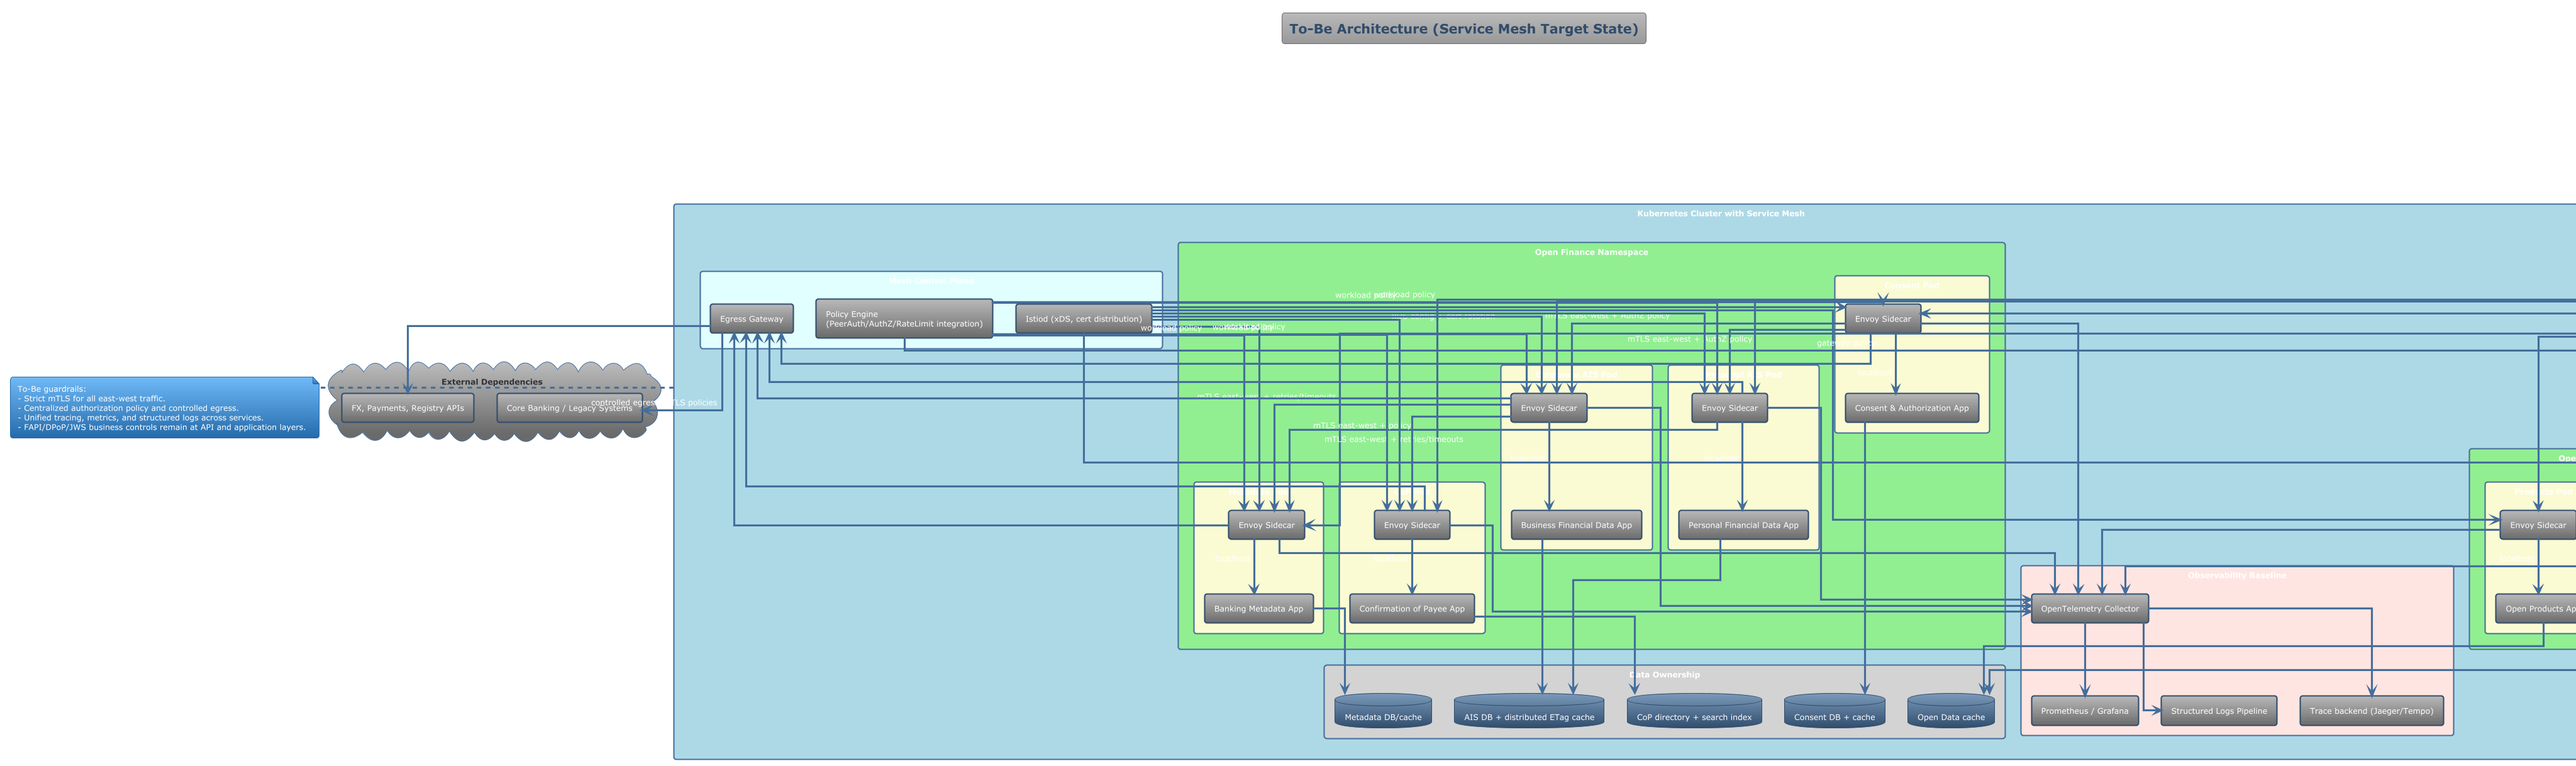
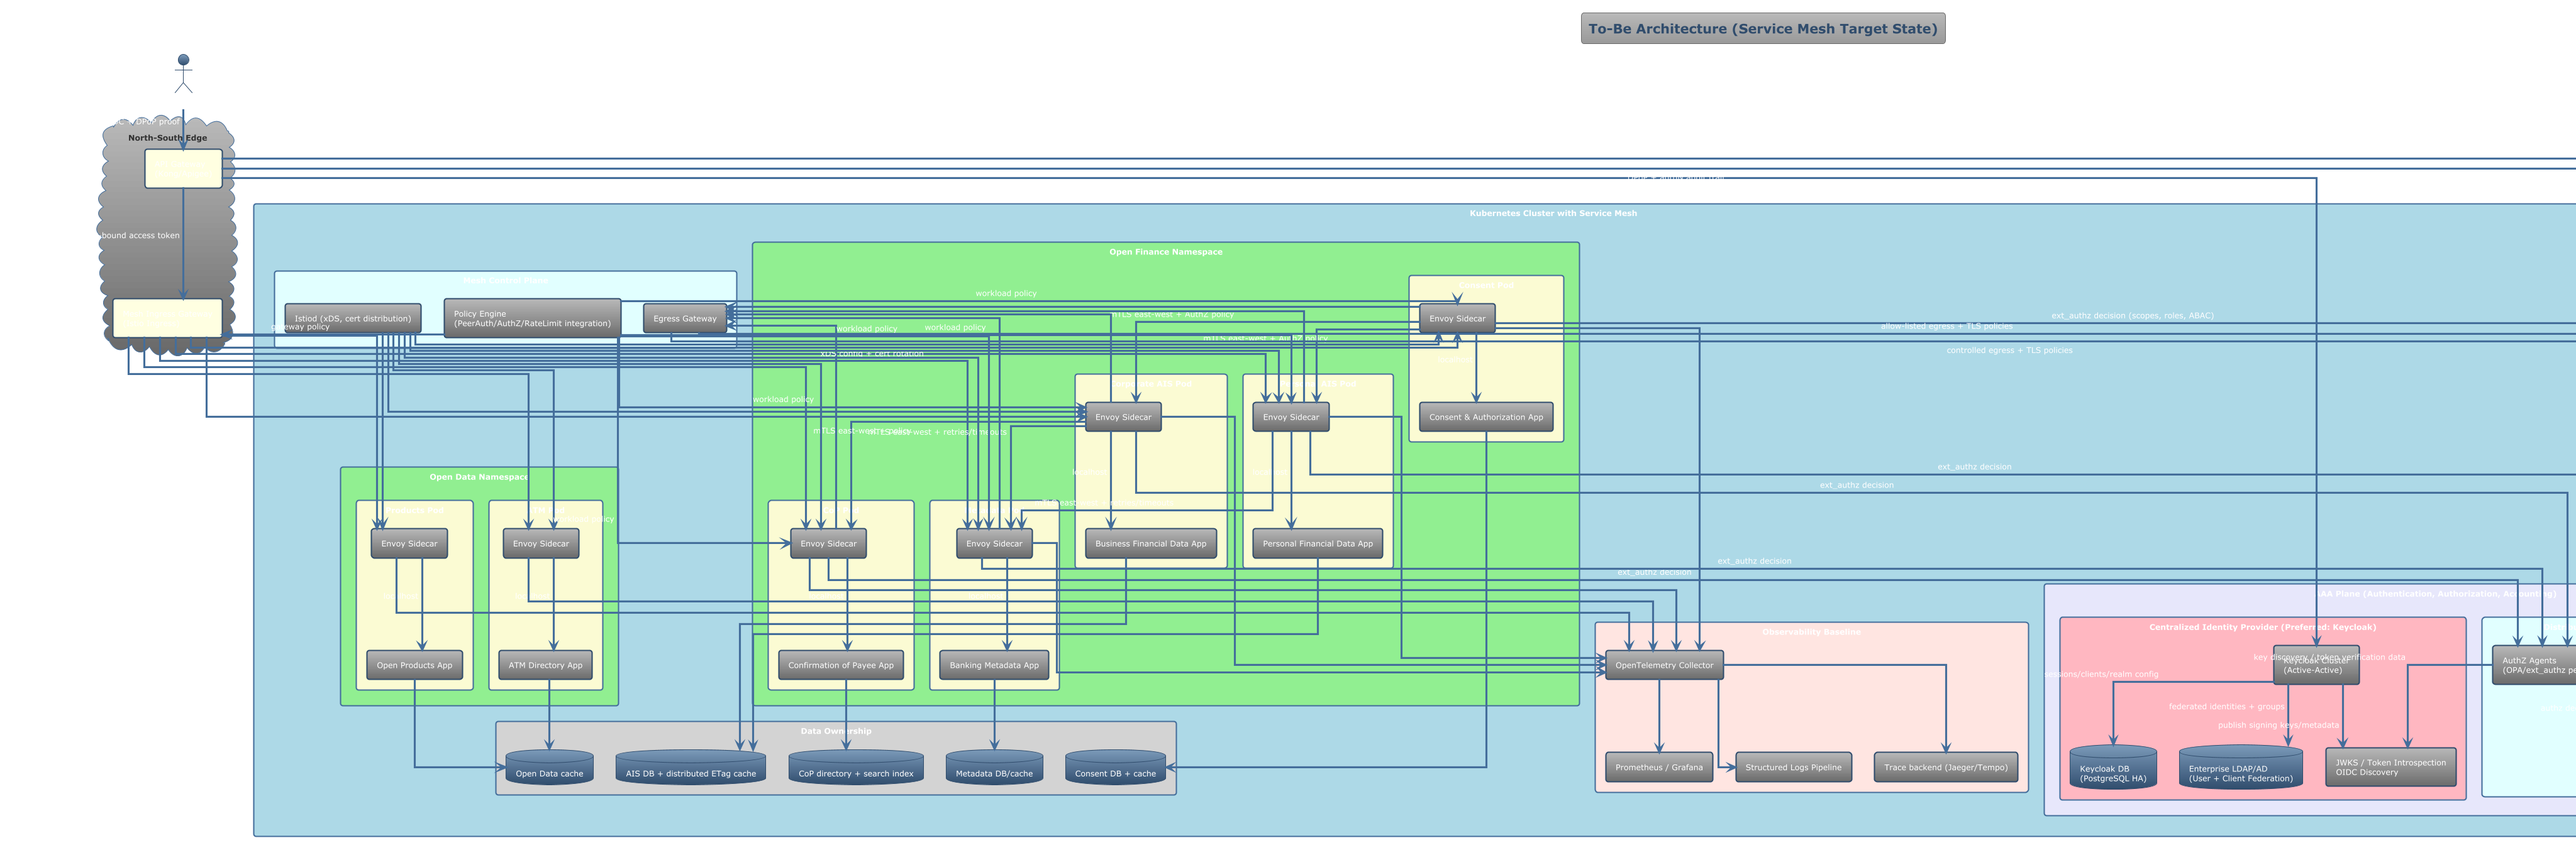
docs(service-mesh): add centralized keycloak aaa and dpop model

diff --git a/docs/puml/service-mesh/plan.md b/docs/puml/service-mesh/plan.md
@@ -4,6 +4,8 @@
 
 Migrate Open Finance services from direct east-west traffic to service-mesh managed communication with strict mTLS, policy-based authorization, controlled egress, and unified observability, while preserving FAPI controls in API/application layers.
 
+Design target includes a centralized identity provider (Keycloak preferred), enterprise LDAP federation, and distributed authorization agents with DPoP enforcement.
+
 ## Scope
 
 In scope:
@@ -21,17 +23,46 @@ Out of scope:
 - As-Is: `as-is-open-finance-runtime.puml`
 - To-Be: `to-be-open-finance-service-mesh.puml`
 
+## AAA Architecture (Keycloak Preferred)
+
+### Authentication
+
+- Centralized IdP: Keycloak cluster (active-active) with OIDC/OAuth2 endpoints.
+- Identity source: LDAP/AD federation for workforce/internal identities; regulated TPP clients managed per realm.
+- Token profile: short-lived access tokens, rotation-friendly refresh strategy, signed JWT with key rotation (`kid` via JWKS).
+
+### Authorization
+
+- Layer 1: API gateway coarse policy checks (client, route, DPoP presence).
+- Layer 2: Mesh/workload policy (`AuthorizationPolicy`, mTLS identity).
+- Layer 3: Distributed authz agents (OPA/ext_authz) for fine-grained ABAC/RBAC/scopes/consent decisions.
+
+### Accounting
+
+- Central immutable audit stream for authN/authZ/DPoP decisions.
+- Correlate logs with interaction IDs and token identifiers (`sub`, `jti`, `cnf.jkt`).
+- Compliance retention and dispute retrieval controls by policy.
+
+## DPoP Enforcement Model
+
+1. Client sends access token + DPoP proof.
+2. Gateway validates proof signature and claims (`htm`, `htu`, `iat`, `jti`, `ath`) and verifies token binding (`cnf.jkt`).
+3. Replay protection enforced via distributed nonce/jti cache.
+4. Mesh ingress/workload agents apply policy and can perform secondary checks for high-risk routes.
+5. All outcomes are written to the audit sink.
+
 ## Delivery Phases
 
 | Phase | Duration | Goal | Exit Criteria | Delivery Artifact |
 | --- | --- | --- | --- | --- |
 | P0 Discovery & ADR | 1-2 weeks | Select mesh stack and migration constraints | Approved ADR, risk register baseline | `docs/service-mesh/adr-service-mesh-selection.md` |
 | P1 Platform Foundation | 2 weeks | Install mesh in non-prod with ingress integration | Mesh control plane healthy; sidecar injection ready | `infra/mesh/base/*`, install runbook |
-| P2 Security Baseline | 2 weeks | Apply mTLS + workload authz + egress control baseline | Namespaces in `STRICT` mTLS (non-prod); deny-by-default policies tested | `infra/mesh/security/*` |
-| P3 Wave 1 Services | 2 weeks | Onboard low-risk services | Canaries pass SLO gates and rollback drills | Wave 1 migration report |
-| P4 Wave 2 Services | 3 weeks | Onboard AIS/metadata/CoP services | Contract and perf tests pass under mesh | Wave 2 migration report |
-| P5 Wave 3 Critical Flows | 3 weeks | Onboard consent and payment-adjacent services | Security and latency gates pass; compliance signoff | Wave 3 migration report |
-| P6 Hardening & Cutover | 1-2 weeks | Global hardening and operational handover | Global policy lock, DR drill pass, go-live signoff | Production readiness checklist |
+| P2 AAA Foundation | 2 weeks | Stand up Keycloak HA, LDAP federation, JWKS and audit pipeline | IdP HA validated, LDAP sync operational, token issuance/introspection healthy | `infra/identity/*`, AAA runbook |
+| P3 Security Baseline | 2 weeks | Apply mTLS + workload authz + DPoP + egress baseline | Namespaces in `STRICT` mTLS; DPoP gateway validation and replay cache validated | `infra/mesh/security/*`, `infra/mesh/dpop/*` |
+| P4 Wave 1 Services | 2 weeks | Onboard low-risk services | Canaries pass SLO gates and rollback drills | Wave 1 migration report |
+| P5 Wave 2 Services | 3 weeks | Onboard AIS/metadata/CoP services | Contract and perf tests pass under mesh | Wave 2 migration report |
+| P6 Wave 3 Critical Flows | 3 weeks | Onboard consent and payment-adjacent services | Security and latency gates pass; compliance signoff | Wave 3 migration report |
+| P7 Hardening & Cutover | 1-2 weeks | Global hardening and operational handover | Global policy lock, DR drill pass, go-live signoff | Production readiness checklist |
 
 ## Wave Ordering
 
@@ -51,6 +82,8 @@ Out of scope:
 ## CI/CD Requirements
 
 - Validate mesh resources (`kubectl --dry-run`, policy lint, schema validation).
+- Validate IdP/realm/client configuration as code (Keycloak export drift checks).
+- Validate DPoP policy pack and replay-cache configuration.
 - Run contract tests and integration tests against sidecar-enabled environments.
 - Enforce canary promotion gates on error rate, latency, and saturation.
 - Block merge if security policy pack or observability baseline is missing.
@@ -64,8 +97,9 @@ Out of scope:
 ## Definition of Done
 
 - Service receives traffic through mesh ingress and sidecar.
+- Service trusts centralized Keycloak issuer and required audience.
+- DPoP validation enforced on designated protected routes.
 - Strict mTLS enabled for the service namespace.
 - Least-privilege AuthorizationPolicy applied and verified.
 - Egress allowlist policy enforced.
 - SLOs and regression test suite pass for three consecutive deploys.
-

diff --git a/docs/puml/service-mesh/refactor.md b/docs/puml/service-mesh/refactor.md
@@ -4,6 +4,8 @@
 
 Define the concrete refactor backlog to move from application-centric transport controls to mesh-governed security, resilience, and observability without breaking business behavior.
 
+This refactor assumes a centralized IdP (Keycloak preferred) with distributed authorization agents and DPoP token-binding enforcement.
+
 ## Refactor Principles
 
 1. Keep domain behavior in service code; move transport policy to mesh.
@@ -25,11 +27,22 @@ Define the concrete refactor backlog to move from application-centric transport 
 
 - API gateway + mesh ingress for north-south.
 - Sidecar proxy for all service pods.
+- Centralized Keycloak + LDAP federation for identity.
+- Distributed authz agents (OPA/ext_authz) for fine-grained decisions.
+- DPoP proof and replay validation in gateway/mesh policy path.
 - mTLS and service authorization in mesh policy layer.
 - Centralized retries/timeouts/circuit-breaking via traffic policies.
 - Unified telemetry via OpenTelemetry + metrics/log pipelines.
 
 ## Refactor Workstreams
+
+## WS0: Identity and AAA Platform
+
+- Deploy Keycloak cluster with HA PostgreSQL backend.
+- Federate enterprise LDAP/AD and map groups/attributes to claims.
+- Establish realm/client management as code.
+- Configure key rotation and JWKS publication.
+- Define token audiences, issuers, and service trust contracts.
 
 ## WS1: Networking and Security
 
@@ -37,6 +50,7 @@ Define the concrete refactor backlog to move from application-centric transport 
 - Introduce `PeerAuthentication` in `PERMISSIVE`, then `STRICT`.
 - Add `AuthorizationPolicy` deny-by-default + explicit allow rules.
 - Add egress policy with gateway and allow-listed external hosts.
+- Add DPoP verification at edge (proof signature, `ath`, `jti` replay, `cnf.jkt` binding).
 - Remove conflicting in-service transport ACL code where mesh replaces it.
 
 ## WS2: Reliability and Traffic Policy
@@ -59,10 +73,13 @@ Define the concrete refactor backlog to move from application-centric transport 
 - Remove duplicate transport-level token forwarding checks if mesh already enforces mTLS identity.
 - Standardize error model for policy-denied and unauthorized responses.
 - Externalize all runtime configuration per 12-factor principles.
+- Standardize token validation libraries to trust centralized Keycloak issuer/JWKS.
 
 ## WS5: CI/CD and Governance
 
 - Add mesh policy validation jobs in Jenkins/GitLab pipelines.
+- Add Keycloak realm/client config validation and drift detection gates.
+- Add DPoP conformance tests for protected APIs.
 - Add pre-deploy policy simulation checks.
 - Require wave-specific verification checklist in PR templates.
 - Add drift detection for runtime mesh objects vs Git.
@@ -70,19 +87,23 @@ Define the concrete refactor backlog to move from application-centric transport 
 ## Service-Level Refactor Checklist
 
 1. Sidecar injection enabled.
-2. Service identity and authz policy applied.
-3. mTLS strict mode validated.
-4. Retry/timeout policy defined by route class.
-5. Egress policy constrained.
-6. Contract and integration tests pass under mesh.
-7. Load test confirms latency budget.
-8. Dashboards and alerts linked.
-9. Runbook updated.
-10. Rollback tested.
+2. Service trust configured to centralized Keycloak issuer/JWKS.
+3. DPoP enforcement enabled for required routes.
+4. Service identity and authz policy applied.
+5. mTLS strict mode validated.
+6. Retry/timeout policy defined by route class.
+7. Egress policy constrained.
+8. Contract and integration tests pass under mesh.
+9. Load test confirms latency budget.
+10. Dashboards and alerts linked.
+11. Runbook updated.
+12. Rollback tested.
 
 ## Risk Controls
 
 - Policy lockout risk: pre-merge simulation and staged rollout.
+- IdP outage risk: multi-instance Keycloak, DB HA, failover and cache strategy.
+- DPoP replay bypass risk: centralized replay cache + strict clock skew.
 - Latency regression risk: canary plus automatic rollback gates.
 - Observability blind spots: block promotion unless telemetry health checks pass.
 - Dependency outage amplification: mesh timeouts and bulkheads with conservative defaults.
@@ -90,8 +111,9 @@ Define the concrete refactor backlog to move from application-centric transport 
 ## Definition of Refactor Completion
 
 - No direct unencrypted east-west service traffic.
+- Centralized IdP and LDAP federation are production-ready and monitored.
+- DPoP-protected routes reject missing/invalid/replayed proofs.
 - All in-scope services managed by mesh policies.
 - No duplicated transport retries/circuit breakers in service code unless explicitly justified.
 - Security and reliability gates are mandatory in CI/CD.
 - Operational team accepts runbooks and incident drill outcomes.
-

diff --git a/docs/puml/service-mesh/README.md b/docs/puml/service-mesh/README.md
@@ -16,5 +16,5 @@ This folder contains architecture views for service-mesh migration planning.
 ## Notes
 
 - **As-Is** shows current runtime with API gateway and direct east-west service calls.
-- **To-Be** shows target state with mesh ingress, sidecars, strict mTLS, policy enforcement, and unified telemetry.
+- **To-Be** shows target state with centralized AAA (Keycloak + LDAP), distributed authz agents, DPoP enforcement, mesh ingress, sidecars, strict mTLS, and unified telemetry.
 - Source of truth is the `.puml` files; image artifacts are generated from those sources.
